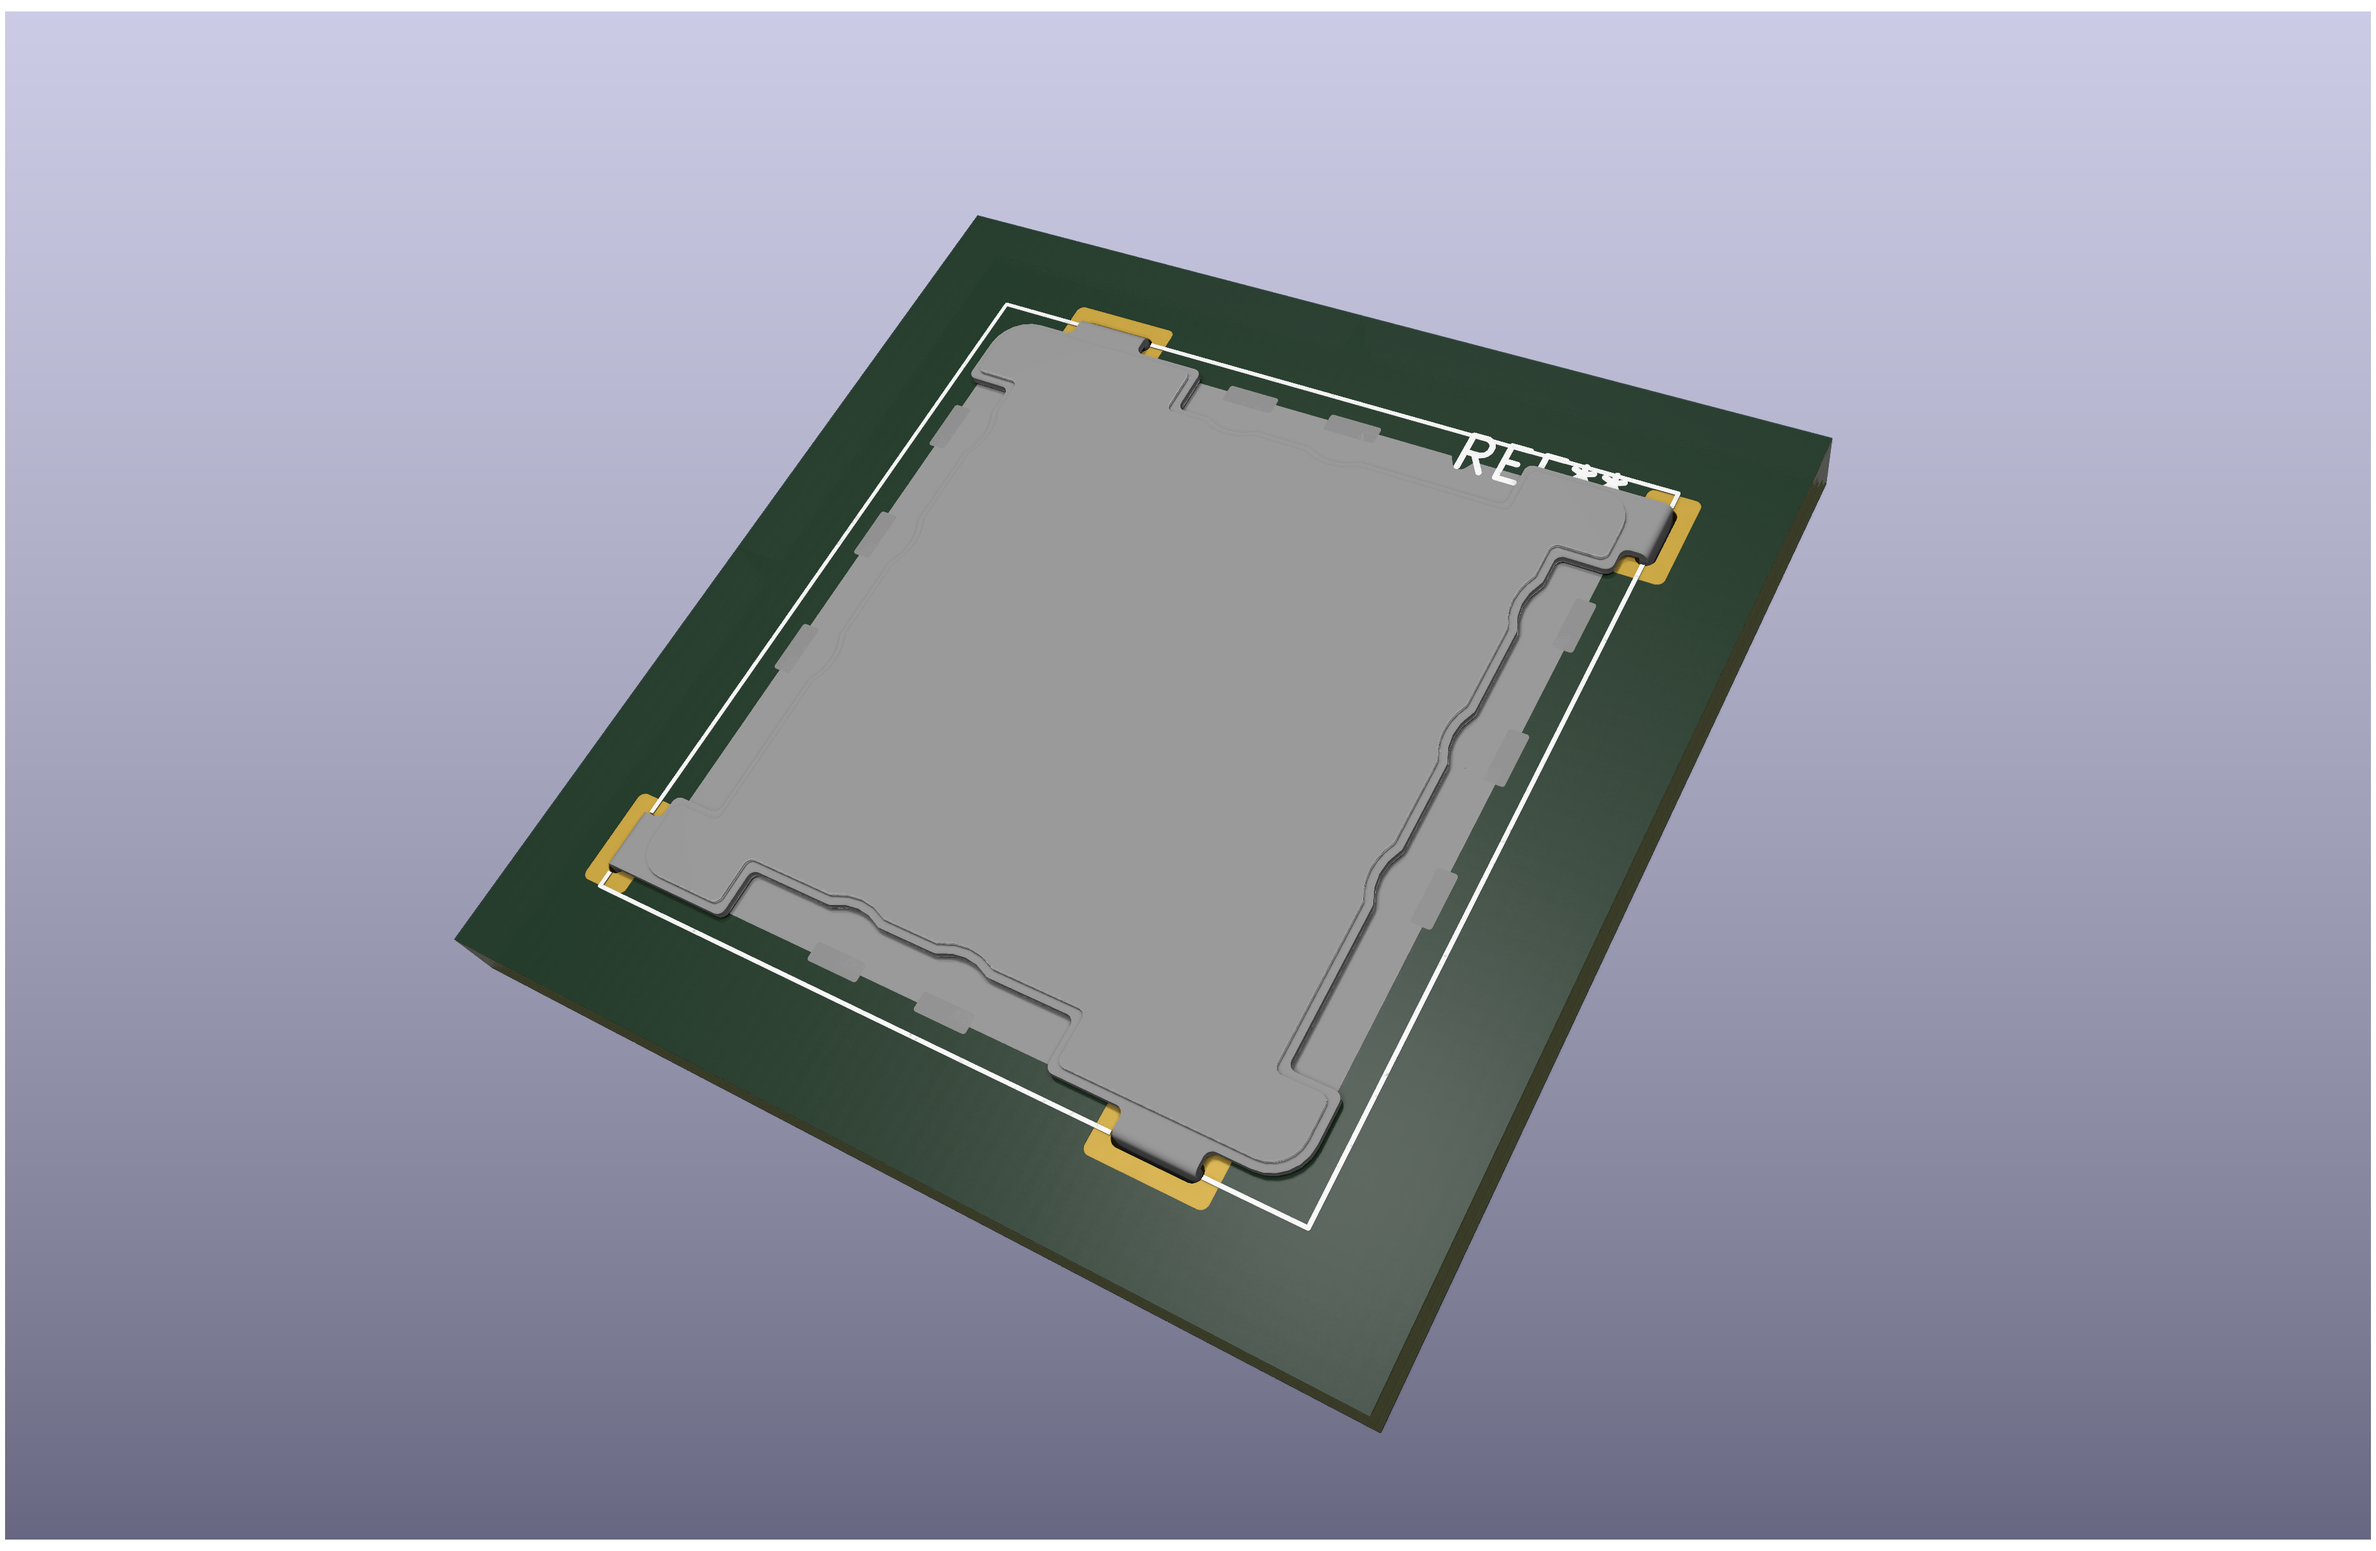
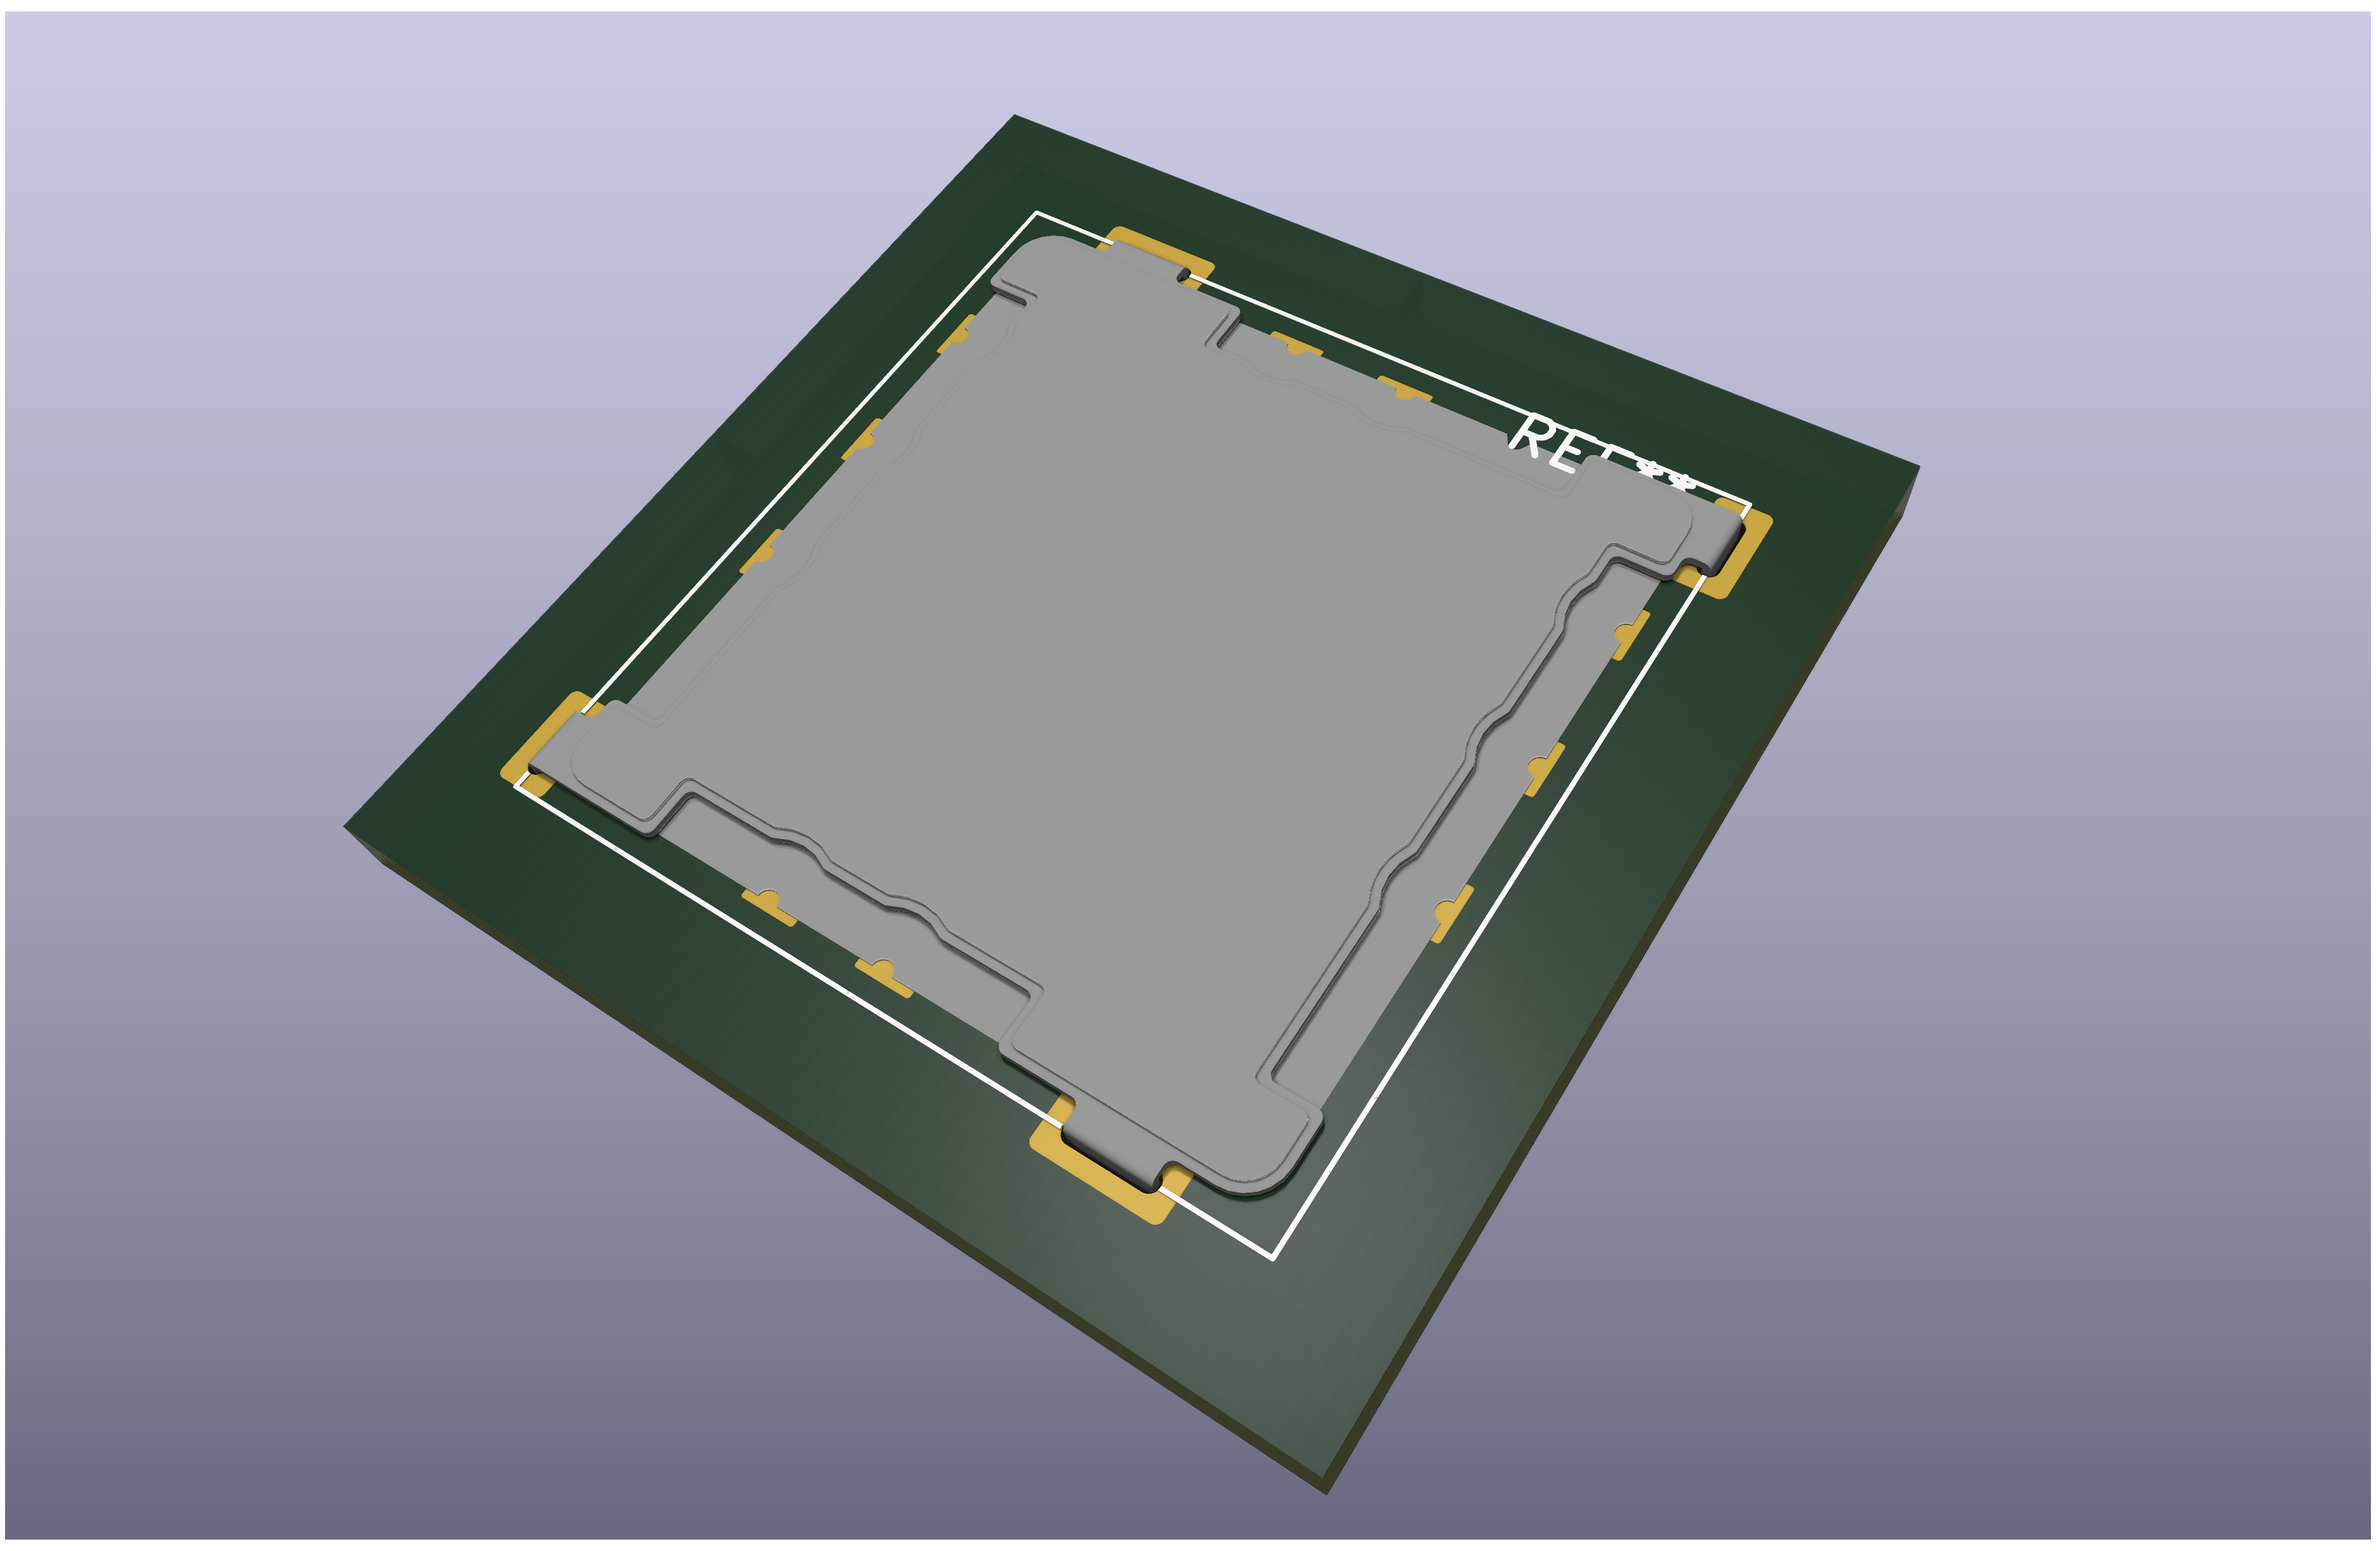
Framework, OKM: Updating views without the solder paste layer

diff --git a/Framework/Framework.pretty/README.md b/Framework/Framework.pretty/README.md
@@ -5,7 +5,17 @@
 > [!WARNING]
 > Preliminary design. Not tested. Not confirmed.
 
+Top view
 [![image](OKM%2001.png)](OKM%2001.png?raw=true)
+
+Bottom view
 [![image](OKM%2002.png)](OKM%2002.png?raw=true)
+
+Bottom view without 3D model
 [![image](OKM%2003.png)](OKM%2003.png?raw=true)
+
+Bottom in footprint editor (flipped, with FAB layer on to see the pin mapping)
 [![image](OKM%2004.png)](OKM%2004.png?raw=true)
+
+> [!WARNING]
+> Pin mapping not confirmed.
